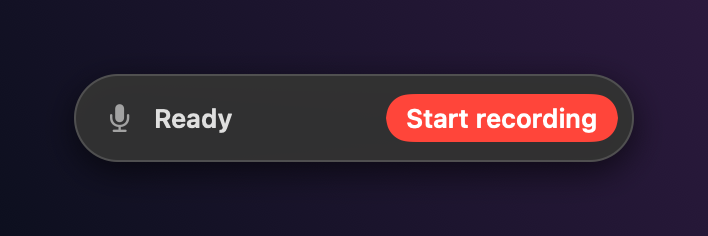
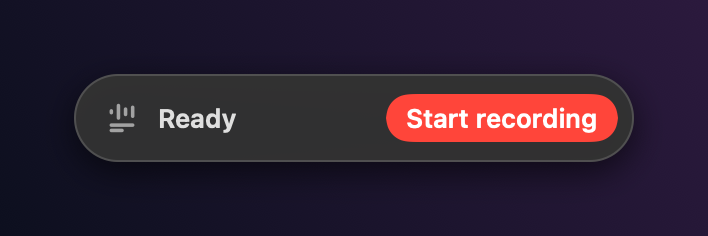
Brand glyph for the menu bar and pill idle state
Code-drawn monochrome glyph (waveform bars over note lines, the app icon's motif) on an
18 pt grid, crisp at 1x/2x. StatusIcon (Core) maps PillState to the icon kind: idle uses
the template glyph, recording/paused a red/orange glyph with a dot/pause badge, other
states keep their SF Symbols. Pill idle slots use the glyph too. Previews render the
menu bar strip (menubar-<appearance>@<scale>x.png).

Changed region(s): [[0.1554, 0.4449, 0.3418, 0.5636]]

diff --git a/app/Sources/MeetingNotesUI/Shared/BrandGlyph.swift b/app/Sources/MeetingNotesUI/Shared/BrandGlyph.swift
@@ -1,0 +1,112 @@
+// Monochrome brand glyph (waveform bars over note lines, the app icon's motif without the squircle)
+// for the menu bar and the pill's idle slot. Drawn in code on an 18-unit grid so it stays crisp at 1x/2x.
+
+import AppKit
+import MeetingNotesCore
+import SwiftUI
+
+/// The glyph as a SwiftUI shape (fills its frame, keeping the 18x18 aspect).
+public struct BrandGlyph: Shape {
+    public init() {}
+
+    public func path(in rect: CGRect) -> Path {
+        let side = min(rect.width, rect.height)
+        let scale = side / BrandGlyph.grid
+        let origin = CGPoint(x: rect.midX - side / 2, y: rect.midY - side / 2)
+        var path = Path()
+        for r in BrandGlyph.rects {
+            let scaled = CGRect(x: origin.x + r.minX * scale, y: origin.y + r.minY * scale,
+                                width: r.width * scale, height: r.height * scale)
+            path.addRoundedRect(in: scaled, cornerSize: CGSize(width: scaled.width / 2, height: scaled.width / 2))
+        }
+        return path
+    }
+
+    /// Design grid (points at 18 pt), y down.
+    static let grid: CGFloat = 18
+    /// Four bars, width 2, gap 2, on whole points (crisp at 1x and 2x); heights echo the app icon's wave.
+    static let bars: [(x: CGFloat, height: CGFloat)] = [(2, 3), (6, 9), (10, 5), (14, 7)]
+    static let barCenterY: CGFloat = 5.5
+    static let barWidth: CGFloat = 2
+    /// Note lines: full width, then a short one (room for a state badge at the bottom right).
+    static let lines: [CGRect] = [CGRect(x: 2, y: 12, width: 14, height: 2), CGRect(x: 2, y: 15, width: 8, height: 2)]
+
+    static var rects: [CGRect] {
+        bars.map { CGRect(x: $0.x, y: barCenterY - $0.height / 2, width: barWidth, height: $0.height) }
+            + lines.map { CGRect(x: $0.minX, y: $0.minY, width: $0.width, height: $0.height) }
+    }
+}
+
+/// NSImages for the menu bar status item, one per `StatusIcon`.
+@MainActor
+public enum StatusIconImage {
+    public static let size = NSSize(width: 18, height: 18)
+
+    public static func make(_ icon: StatusIcon) -> NSImage? {
+        let image: NSImage?
+        switch icon.kind {
+        case .glyph:
+            image = glyph(color: .black, badge: nil)
+            image?.isTemplate = true
+        case .tintedGlyph(let tint):
+            image = glyph(color: tint == .recording ? .systemRed : .systemOrange, badge: tint)
+            image?.isTemplate = false
+        case .symbol(let name):
+            image = NSImage(systemSymbolName: name, accessibilityDescription: nil)
+            image?.isTemplate = true
+        }
+        image?.accessibilityDescription = accessibilityDescription(icon)
+        return image
+    }
+
+    static func accessibilityDescription(_ icon: StatusIcon) -> String {
+        switch icon {
+        case .recording: return "Meeting Notes – Recording"
+        case .paused: return "Meeting Notes – Paused"
+        default: return "Meeting Notes"
+        }
+    }
+
+    private static func glyph(color: NSColor, badge: StatusIcon.Tint?) -> NSImage {
+        NSImage(size: size, flipped: true) { rect in
+            guard let ctx = NSGraphicsContext.current?.cgContext else { return false }
+            let path = BrandGlyph().path(in: rect).cgPath
+            ctx.addPath(path)
+            ctx.setFillColor(color.cgColor)
+            ctx.fillPath()
+            guard let badge else { return true }
+            // Badge in the empty bottom-right corner, cut out of the glyph so it reads as separate.
+            let center = CGPoint(x: 14, y: 14)
+            ctx.setBlendMode(.clear)
+            ctx.fillEllipse(in: CGRect(x: center.x - 4.5, y: center.y - 4.5, width: 9, height: 9))
+            ctx.setBlendMode(.normal)
+            ctx.setFillColor(color.cgColor)
+            switch badge {
+            case .recording:
+                ctx.fillEllipse(in: CGRect(x: center.x - 3, y: center.y - 3, width: 6, height: 6))
+            case .paused:
+                ctx.fill(CGRect(x: center.x - 3, y: center.y - 3, width: 2, height: 6))
+                ctx.fill(CGRect(x: center.x + 1, y: center.y - 3, width: 2, height: 6))
+            }
+            return true
+        }
+    }
+}
+
+/// The glyph as an inline icon in the pill (replaces the old microphone symbol in idle states).
+public struct BrandGlyphIcon: View {
+    let size: CGFloat
+    let color: Color
+
+    public init(size: CGFloat = 16, color: Color = Palette.secondary) {
+        self.size = size
+        self.color = color
+    }
+
+    public var body: some View {
+        BrandGlyph().fill(color).frame(width: size, height: size)
+            .accessibilityElement()
+            .accessibilityLabel(Text("Meeting Notes"))
+            .accessibilityAddTraits(.isImage)
+    }
+}

diff --git a/app/Sources/MeetingNotes/Presentation/Menus.swift b/app/Sources/MeetingNotes/Presentation/Menus.swift
@@ -189,7 +189,7 @@ final class StatusItemController: NSObject, NSMenuDelegate {
     private let item = NSStatusBar.system.statusItem(withLength: NSStatusItem.squareLength)
     private let controller: AppController
     private unowned let hub: UIHub
-    private var iconKey = ""
+    private var iconKey: StatusIcon?
 
     init(controller: AppController, hub: UIHub) {
         self.controller = controller
@@ -204,51 +204,15 @@ final class StatusItemController: NSObject, NSMenuDelegate {
     func update(force: Bool = false) {
         item.button?.toolTip = "Meeting Notes – \(controller.pill.label())"
         item.button?.setAccessibilityLabel(item.button?.toolTip)
-        let key: String
-        switch controller.pill {
-        case .idle(let attention): key = attention ? "attention" : "idle"
-        case .starting, .stopping: key = "busy"
-        case .recording: key = "recording"
-        case .paused: key = "paused"
-        case .processing: key = "processing"
-        case .ready: key = "ready"
-        case .error: key = "error"
-        }
-        guard force || key != iconKey else { return }
-        iconKey = key
-        item.button?.image = Self.icon(key)
+        let icon = StatusIcon(controller.pill)
+        guard force || icon != iconKey else { return }
+        iconKey = icon
+        item.button?.image = StatusIconImage.make(icon)
     }
 
     func menuNeedsUpdate(_ menu: NSMenu) {
         MenuFactory.fillStatusMenu(menu, controller: controller, hub: hub)
     }
-
-    private static func icon(_ key: String) -> NSImage? {
-        if key == "recording" { return redDot }
-        let name: String
-        switch key {
-        case "attention", "error": name = "exclamationmark.triangle"
-        case "busy": name = "ellipsis.circle"
-        case "paused": name = "pause.circle"
-        case "processing": name = "arrow.triangle.2.circlepath.circle"
-        case "ready": name = "checkmark.circle"
-        default: name = "mic"
-        }
-        let image = NSImage(systemSymbolName: name, accessibilityDescription: "Meeting Notes")
-        image?.isTemplate = true
-        return image
-    }
-
-    private static let redDot: NSImage = {
-        let image = NSImage(size: NSSize(width: 14, height: 14), flipped: false) { rect in
-            NSColor.systemRed.setFill()
-            NSBezierPath(ovalIn: rect.insetBy(dx: 2.5, dy: 2.5)).fill()
-            return true
-        }
-        image.isTemplate = false
-        image.accessibilityDescription = "Recording"
-        return image
-    }()
 }
 
 /// Rebuilds the main menu's Recording menu when it opens.

diff --git a/app/Sources/MeetingNotesPreviews/GlyphSheet.swift b/app/Sources/MeetingNotesPreviews/GlyphSheet.swift
@@ -1,0 +1,48 @@
+import AppKit
+import MeetingNotesCore
+import MeetingNotesUI
+
+/// `menubar-<appearance>@<scale>x.png`: every status item icon on a simulated menu bar strip, at real
+/// pixel size (1x and 2x), template images tinted the way the menu bar tints them.
+@MainActor
+func renderGlyphSheet(appearance: Appearance, scale: CGFloat, dir: URL) {
+    let icons = StatusIcon.allCases
+    let slot: CGFloat = 28
+    let size = CGSize(width: slot * CGFloat(icons.count) + 8, height: 24)
+    let rep = NSBitmapImageRep(bitmapDataPlanes: nil, pixelsWide: Int(size.width * scale), pixelsHigh: Int(size.height * scale),
+                               bitsPerSample: 8, samplesPerPixel: 4, hasAlpha: true, isPlanar: false,
+                               colorSpaceName: .deviceRGB, bytesPerRow: 0, bitsPerPixel: 0)!
+    rep.size = size
+    NSGraphicsContext.saveGraphicsState()
+    NSGraphicsContext.current = NSGraphicsContext(bitmapImageRep: rep)
+    let dark = appearance == .dark
+    (dark ? NSColor(white: 0.16, alpha: 1) : NSColor(white: 0.93, alpha: 1)).setFill()
+    NSRect(origin: .zero, size: size).fill()
+    let tint = dark ? NSColor.white : NSColor(white: 0, alpha: 0.85)
+    for (index, icon) in icons.enumerated() {
+        guard let image = StatusIconImage.make(icon) else { continue }
+        let fitted = image.size.width > 18 || image.size.height > 18
+            ? NSSize(width: 18, height: 18) : image.size
+        let rect = NSRect(x: 4 + slot * CGFloat(index) + (slot - fitted.width) / 2, y: (size.height - fitted.height) / 2,
+                          width: fitted.width, height: fitted.height)
+        draw(image, in: rect, tint: image.isTemplate ? tint : nil)
+    }
+    NSGraphicsContext.restoreGraphicsState()
+    let name = "menubar-\(appearance.rawValue)@\(Int(scale))x.png"
+    Renderer.write(rep, dir.appendingPathComponent(name))
+    print("\(name)\t\(icons.map(\.rawValue).joined(separator: " "))")
+}
+
+private func draw(_ image: NSImage, in rect: NSRect, tint: NSColor?) {
+    guard let tint else {
+        image.draw(in: rect)
+        return
+    }
+    let tinted = NSImage(size: rect.size, flipped: false) { bounds in
+        image.draw(in: bounds)
+        tint.setFill()
+        bounds.fill(using: .sourceAtop)
+        return true
+    }
+    tinted.draw(in: rect)
+}

diff --git a/app/Sources/MeetingNotesCore/Presentation/StatusIcon.swift b/app/Sources/MeetingNotesCore/Presentation/StatusIcon.swift
@@ -1,0 +1,44 @@
+import Foundation
+
+/// Which icon the menu bar item and the pill's state slot show for a `PillState`.
+/// Idle, recording and paused use the brand glyph (waveform bars over note lines, the app icon's motif);
+/// the other states keep an SF Symbol so their meaning stays obvious.
+public enum StatusIcon: String, CaseIterable, Equatable, Sendable {
+    case idle, attention, busy, recording, paused, processing, ready, error
+
+    public init(_ pill: PillState) {
+        switch pill {
+        case .idle(let attention): self = attention ? .attention : .idle
+        case .starting, .stopping: self = .busy
+        case .recording: self = .recording
+        case .paused: self = .paused
+        case .processing: self = .processing
+        case .ready: self = .ready
+        case .error: self = .error
+        }
+    }
+
+    /// How the menu bar draws this state.
+    public enum Kind: Equatable, Sendable {
+        /// The brand glyph as a template image (follows the menu bar's light/dark tint).
+        case glyph
+        /// The brand glyph tinted with a state color (not a template), e.g. red while recording.
+        case tintedGlyph(Tint)
+        /// An SF Symbol template image.
+        case symbol(String)
+    }
+
+    public enum Tint: String, Equatable, Sendable { case recording, paused }
+
+    public var kind: Kind {
+        switch self {
+        case .idle: return .glyph
+        case .recording: return .tintedGlyph(.recording)
+        case .paused: return .tintedGlyph(.paused)
+        case .attention, .error: return .symbol("exclamationmark.triangle")
+        case .busy: return .symbol("ellipsis.circle")
+        case .processing: return .symbol("arrow.triangle.2.circlepath.circle")
+        case .ready: return .symbol("checkmark.circle")
+        }
+    }
+}

diff --git a/app/Tests/MeetingNotesCoreTests/StatusIconTests.swift b/app/Tests/MeetingNotesCoreTests/StatusIconTests.swift
@@ -1,0 +1,42 @@
+import Foundation
+import Testing
+@testable import MeetingNotesCore
+
+@Suite("Status icon")
+struct StatusIconTests {
+    @Test func pillStateMapsToIcon() {
+        let cases: [(PillState, StatusIcon)] = [
+            (.idle(attention: false), .idle),
+            (.idle(attention: true), .attention),
+            (.starting, .busy),
+            (.stopping, .busy),
+            (.recording, .recording),
+            (.paused, .paused),
+            (.processing(ProcessingSnapshot(job: "j", folder: "/f", title: "t")), .processing),
+            (.ready(ReadyInfo(folder: "/f", title: "t", notesPath: nil)), .ready),
+            (.error(PillError("boom")), .error),
+        ]
+        for (pill, icon) in cases {
+            #expect(StatusIcon(pill) == icon, "\(pill)")
+        }
+    }
+
+    @Test func iconKinds() {
+        #expect(StatusIcon.idle.kind == .glyph)
+        #expect(StatusIcon.recording.kind == .tintedGlyph(.recording))
+        #expect(StatusIcon.paused.kind == .tintedGlyph(.paused))
+        #expect(StatusIcon.attention.kind == .symbol("exclamationmark.triangle"))
+        #expect(StatusIcon.error.kind == .symbol("exclamationmark.triangle"))
+        #expect(StatusIcon.busy.kind == .symbol("ellipsis.circle"))
+        #expect(StatusIcon.processing.kind == .symbol("arrow.triangle.2.circlepath.circle"))
+        #expect(StatusIcon.ready.kind == .symbol("checkmark.circle"))
+    }
+
+    @Test func onlyIdleRecordingPausedUseTheBrandGlyph() {
+        let glyphs = StatusIcon.allCases.filter {
+            if case .symbol = $0.kind { return false }
+            return true
+        }
+        #expect(glyphs == [.idle, .recording, .paused])
+    }
+}

diff --git a/app/Tests/MeetingNotesUITests/StatusIconImageTests.swift b/app/Tests/MeetingNotesUITests/StatusIconImageTests.swift
@@ -1,0 +1,36 @@
+import AppKit
+import MeetingNotesCore
+import MeetingNotesUI
+import SwiftUI
+import Testing
+
+@Suite("Status icon images")
+@MainActor
+struct StatusIconImageTests {
+    @Test func idleGlyphIsAnEighteenPointTemplate() throws {
+        let image = try #require(StatusIconImage.make(.idle))
+        #expect(image.isTemplate)
+        #expect(image.size == NSSize(width: 18, height: 18))
+        #expect(image.accessibilityDescription == "Meeting Notes")
+    }
+
+    @Test func recordingAndPausedKeepTheirColor() throws {
+        for icon in [StatusIcon.recording, .paused] {
+            let image = try #require(StatusIconImage.make(icon))
+            #expect(!image.isTemplate, "\(icon)")
+            #expect(image.accessibilityDescription?.contains("Meeting Notes") == true)
+        }
+    }
+
+    @Test func symbolStatesStayTemplates() throws {
+        for icon in [StatusIcon.attention, .busy, .processing, .ready, .error] {
+            let image = try #require(StatusIconImage.make(icon))
+            #expect(image.isTemplate, "\(icon)")
+        }
+    }
+
+    @Test func glyphStaysInsideItsGrid() {
+        let bounds = BrandGlyph().path(in: CGRect(x: 0, y: 0, width: 18, height: 18)).boundingRect
+        #expect(bounds.minX >= 0 && bounds.minY >= 0 && bounds.maxX <= 18 && bounds.maxY <= 18)
+    }
+}

diff --git a/app/Sources/MeetingNotesPreviews/main.swift b/app/Sources/MeetingNotesPreviews/main.swift
@@ -3,7 +3,7 @@ import MeetingNotesCore
 import MeetingNotesUI
 import SwiftUI
 
-// `swift run MeetingNotesPreviews <dir>`: renders the pill (collapsed + expanded), the main window in
+// `swift run MeetingNotesPreviews <dir>`: renders the menu bar icons, the pill (collapsed + expanded), the main window in
 // every state and the Settings window, light and dark, at 2x, into <dir>. Offscreen only: no window is ever ordered on screen,
 // nothing is recorded, and the app is not started (this target does not contain it).
 // The renderer process is never active, so AppKit draws prominent (tinted) buttons in their inactive
@@ -171,6 +171,9 @@ MainActor.assumeIsolated {
     func wanted(_ name: String) -> Bool { only.map { name.contains($0) } ?? true }
 
     for appearance in Appearance.allCases {
+        for scale: CGFloat in [1, 2] where wanted("menubar") {
+            renderGlyphSheet(appearance: appearance, scale: scale, dir: dir)
+        }
         for scenario in Scenario.allCases {
             for expanded in [false, true] where wanted("pill-\(scenario.rawValue)") {
                 renderPill(scenario, expanded: expanded, lang: .vi, appearance: appearance, dir: dir)

diff --git a/app/Sources/MeetingNotesUI/Pill/ExpandedCard.swift b/app/Sources/MeetingNotesUI/Pill/ExpandedCard.swift
@@ -62,8 +62,11 @@ struct ExpandedCard: View {
         case .ready: Image(systemName: "checkmark.circle.fill").foregroundStyle(Palette.ok)
         case .error: Image(systemName: "exclamationmark.octagon.fill").foregroundStyle(Palette.recording)
         case .idle(let attention):
-            Image(systemName: attention ? "exclamationmark.triangle.fill" : "mic.circle")
-                .foregroundStyle(attention ? Palette.warning : Palette.secondary)
+            if attention {
+                Image(systemName: "exclamationmark.triangle.fill").foregroundStyle(Palette.warning)
+            } else {
+                BrandGlyphIcon(size: 18)
+            }
         default: Image(systemName: "ellipsis.circle").foregroundStyle(Palette.secondary)
         }
     }

diff --git a/app/Sources/MeetingNotesUI/Pill/CollapsedPill.swift b/app/Sources/MeetingNotesUI/Pill/CollapsedPill.swift
@@ -74,7 +74,7 @@ struct CollapsedPill: View {
                 Button(tr(.actionFix)) { commands.showMainWindow() }
                     .buttonStyle(PillButtonStyle(kind: .secondary, size: .small))
             } else {
-                Image(systemName: "mic.fill").foregroundStyle(Palette.secondary)
+                BrandGlyphIcon(size: 16)
                 stateLabel
                 Spacer(minLength: 8)
             }
